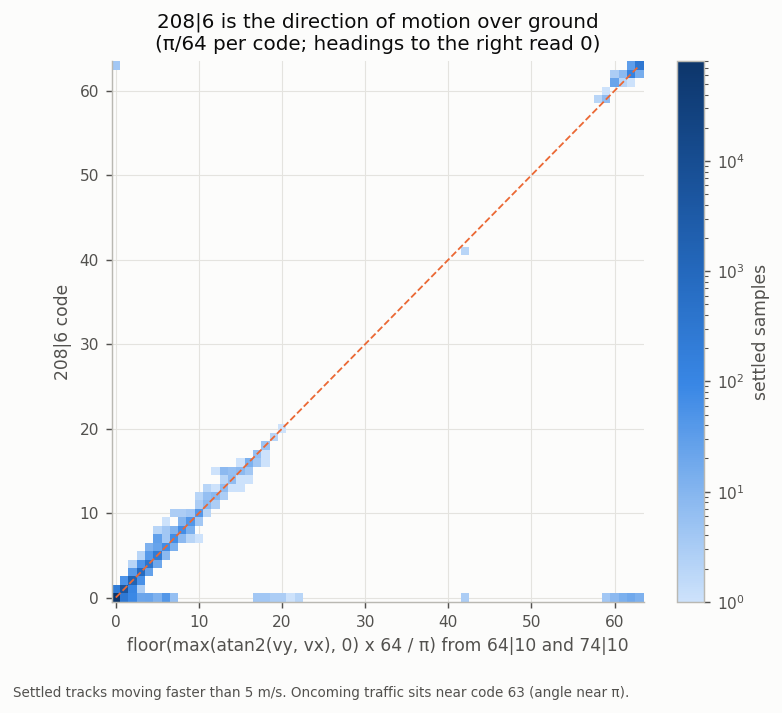
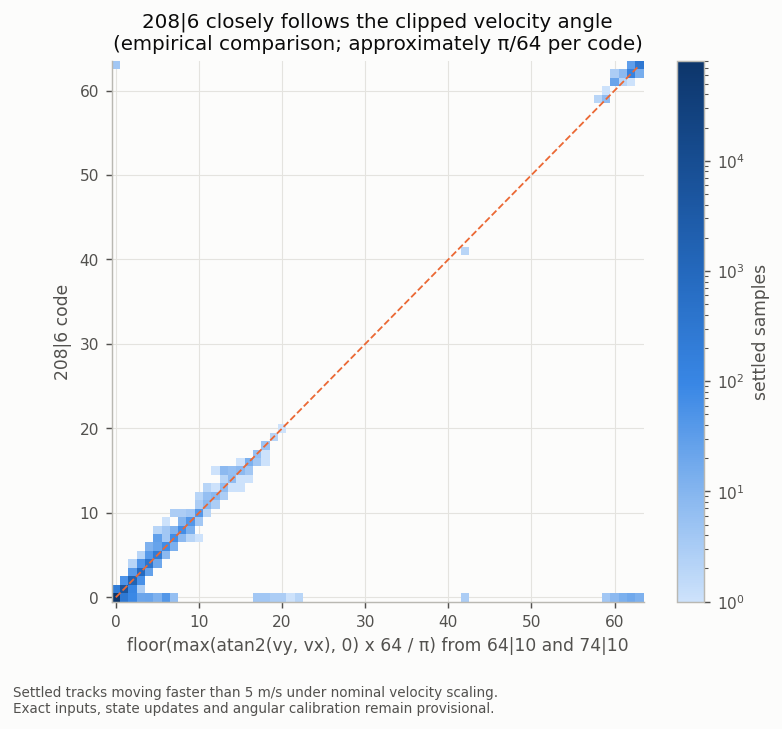
Qualify heading derivation and ego-path reference (#8)
* docs: qualify heading derivation and ego-path reference

* Qualify heading figure interpretation

diff --git a/tools/make_analysis_figures.py b/tools/make_analysis_figures.py
@@ -639,9 +639,10 @@ def heading_field():
     ax.plot([0, 63], [0, 63], color=S2, lw=1, ls="--")
     ax.set_xlabel("floor(max(atan2(vy, vx), 0) x 64 / π) from 64|10 and 74|10")
     ax.set_ylabel("208|6 code")
-    ax.set_title("208|6 is the direction of motion over ground\n(π/64 per code; headings to the right read 0)")
+    ax.set_title("208|6 closely follows the clipped velocity angle\n(empirical comparison; approximately π/64 per code)")
     NUMBERS["heading"] = {"exact": float((pred == code).mean()), "within_one": float((np.abs(pred - code) <= 1).mean()), "n": int(m.sum())}
-    save(fig, "heading_field", "Settled tracks moving faster than 5 m/s. Oncoming traffic sits near code 63 (angle near π).")
+    save(fig, "heading_field", "Settled tracks moving faster than 5 m/s under nominal velocity scaling.\n"
+         "Exact inputs, state updates and angular calibration remain provisional.")
 
 
 def far_settling():

diff --git a/docs/03_slot_fields.md b/docs/03_slot_fields.md
@@ -29,7 +29,7 @@ from this radar's own data.
 | `74\|10` | **vy over ground**, left positive | `(code − 510.5) × ~0.147` m/s | ◐ |
 | `84\|10` | **ax over ground**, filtered | `(code − 511) × ~0.04` m/s²; follows vx by 0.5-1 s | ◐ |
 | `96\|10` | **ay over ground**, filtered | `(code − 511) × 0.05` m/s²; follows the kinematic value by ~0.5 s | ◐ |
-| `208\|6` | **heading over ground**, left positive, clipped at 0 | `floor(max(atan2(vy, vx), 0) × 64 / π)`: π/64 rad per code | ● meaning, ◐ exact scale |
+| `208\|6` | **coarse heading over ground**, left positive, clipped at 0 | observed code × approximately π/64 rad; closely follows the clipped velocity angle | ◐ meaning / exact scale |
 
 - **The velocity is over ground**, not relative: traffic sits on the ego-speed diagonal, parked objects on 0 and
   oncoming traffic on −v_ego.
@@ -41,14 +41,24 @@ from this radar's own data.
   three drive groups, and 0.147 (±3%) against the gyro in turns on all 700 segments. `96|10` tracks lateral
   acceleration at r = 0.92 / 0.88 / 0.90 (development / confirmation /
   further drives), 0.84 / 0.78 / 0.83 after removing ego's own lateral acceleration.
-- **Heading over ground** is the direction of the object's over-ground velocity, computed in the same cycle from the
-  published components: it matches `floor(max(atan2(vy, vx), 0) × 64 / π)` on 98.2% of settled moving samples
-  (99.6% within one code), with the best agreement at zero lag. Rightward headings read 0 and oncoming motion reads
-  near 63. Against an independent physical reference, the road direction that the car itself drives through a few
-  seconds later at the lead's position, it correlates at r = 0.89-0.93 on three drive partitions, with a slope of
-  1.0 ± 0.1 per π/64 rad and 99.9% of rightward headings at 0. Where it differs from the component formula, the
-  component formula is at least as close to the road direction. Counts:
+- **The heading output closely follows the clipped velocity angle.** It matches
+  `floor(max(atan2(vy, vx), 0) × 64 / π)` on 98.2% of settled moving samples (99.6% within one code),
+  with the best agreement at zero lag. Rightward headings read 0 and oncoming motion reads near 63.
+  The output can also change while both transmitted velocity codes stay unchanged, so the formula is an
+  empirical comparison. Its exact inputs, precision, state updates and filtering remain provisional. Counts:
   [`heading_component_bins.json`](../data/analysis/summaries/heading_component_bins.json),
+  [`velocity_heading.json`](../data/analysis/summaries/velocity_heading.json).
+
+  A conditional ego-path comparison supports the approximate angular scale: the output correlates at
+  r = 0.89-0.93 with the road direction where ego later passes the target's reported position. This uses
+  native radar position to select the future path point and assumes the target follows that path; target
+  identity and direction are not independently measured. On rows where the output differs from the
+  component formula, neither comparison establishes a separate or directly derived heading state.
+  Three checked allocation edges keep both component codes fixed while the heading changes, including
+  two with ordinary neighbouring `200|7` codes. These are observed code updates, not three independently
+  verified physical turns. Structural examples and the reference's distinguishing criteria:
+  [`heading_interpretation.json`](../data/analysis/summaries/heading_interpretation.json).
+  Reference assumptions and results:
   [`decode_references.json`](../data/analysis/summaries/decode_references.json).
 
   The neighbouring `200|7` code helps distinguish output states: raw63 pairs with angle0 on all 393,268

diff --git a/data/README.md b/data/README.md
@@ -47,7 +47,7 @@ expanded 700-segment inventories, 20 held-out replay routes and closed-loop driv
 |---|---|
 | This dataset | `init_templates_dataset` (row counts and allocation-placeholder flags) |
 | [02 Object list](../docs/02_object_list.md) | `stationary_listing_rule`, `header_allocation_count`, `prefix_alignment` |
-| [03 Slot fields](../docs/03_slot_fields.md) | `midband_weight_triplet`, `weight_lateral_roles`, `weight_state128`, `attribute_recoding`, `full_movement_code`, `startup_low5_decay`, `initial_attribute_zeros` (joint age-1 attribute/position template and strict age-2 exits), `score16_countdown`, `score16_outcomes`, `velocity_heading`, `heading_component_bins` (declared bin limits and original-CAN-verified angle/component updates), `heading_default_state` (conditional angular-code states, exceptions and oncoming-like resets), `rotating_kinematics`, `template_field_tests`, `camera_semantic_correction` (size and class associations), `class5_video_review` (candidate cyclist/person associations from a 700-segment inventory), `decode_references` (camera-free physical references: heading, lateral velocity, class kinematics) |
+| [03 Slot fields](../docs/03_slot_fields.md) | `midband_weight_triplet`, `weight_lateral_roles`, `weight_state128`, `attribute_recoding`, `full_movement_code`, `startup_low5_decay`, `initial_attribute_zeros` (joint age-1 attribute/position template and strict age-2 exits), `score16_countdown`, `score16_outcomes`, `velocity_heading`, `heading_component_bins` (declared bin limits and original-CAN-verified angle/component updates), `heading_default_state` (conditional angular-code states, exceptions and oncoming-like resets), `heading_interpretation` (checked component-held updates and conditional ego-path criteria), `rotating_kinematics`, `template_field_tests`, `camera_semantic_correction` (size and class associations), `class5_video_review` (candidate cyclist/person associations from a 700-segment inventory), `decode_references` (ego-motion comparisons: conditional path heading, lateral velocity, class kinematics) |
 | [04 Metadata record](../docs/04_metadata_record_0x85.md) | `id85_lane_lateral_candidates`, `id85_parameter_presence`, `prefix_alignment`, `decode_references` (raw-word curvature association in bits 64-79), `id85_direction_code_structure` (high-bit transitions and original-record-checked relative-time example) |
 | [05 ACC target](../docs/05_acc_target_and_support.md) | `signal_atlas_and_acc_crosscheck`, `acc_target_arel`, `acc_distance_increment_closure`, `acc_target_availability` (active OEM reporting with a fresh empty native list, scope and source limits), `event_pair_carries` (full event census, carry limits and source-verified relative-time example), `context_24x`, `selected_target_descriptors` (full descriptor lifecycle census and raw summary-word limits), `decode_references` (event-pair time-to-collision context) |
 | [06 Accuracy](../docs/06_accuracy.md) | `figure_numbers` (velocity MSE, range walks), `camera_semantic_correction` (three-cornered hat), `far_range_camera_correction`, `camera_identity_correction`, `review_followup` (stopped targets), `radar_only_scales`, `lane_peaks`, `state_space`, `encoding_calibration` (nominal constants, host-standstill selection, interval membership and arithmetic sensitivity) |
